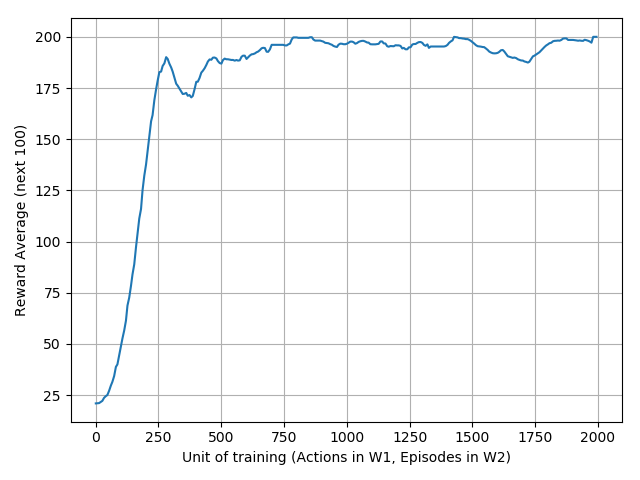
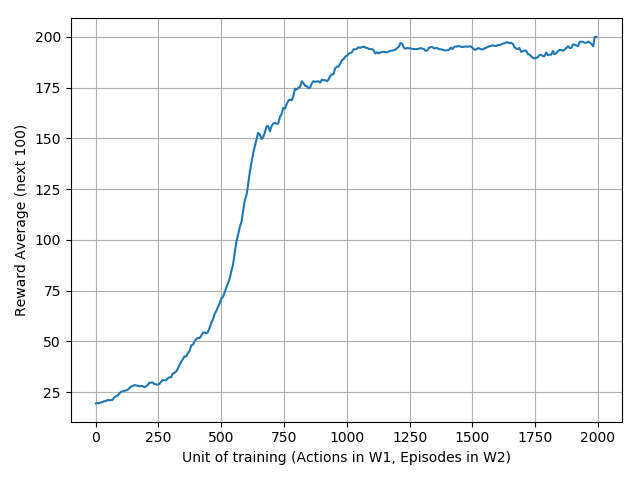
Tune parameters and fix designs for QRA2C.

diff --git a/algorithms/QRA2C.py b/algorithms/QRA2C.py
@@ -19,11 +19,13 @@ class QRVNetwork(object):
             for hidden_dim in self.hidden_dims:
                 hidden = tf.layers.dense(hidden, hidden_dim, activation=tf.nn.relu,
                                          kernel_initializer=tf.initializers.variance_scaling(distribution='uniform',
-                                                                                             mode='fan_avg'))
+                                                                                             mode='fan_avg'),
+                                         kernel_regularizer=tf.contrib.layers.l2_regularizer(1e-3))
             hidden = tf.layers.dense(hidden, self.n_quantile, activation=None,
-                                   kernel_initializer=tf.initializers.variance_scaling(distribution='uniform',
-                                                                                             mode='fan_avg'))
+                                   kernel_initializer=tf.initializers.variance_scaling(distribution='uniform',mode='fan_avg'),
+                                   kernel_regularizer=tf.contrib.layers.l2_regularizer(1e-3))
             return hidden
+
 
 class QRA2C(A2C):
     '''
@@ -35,36 +37,77 @@ class QRA2C(A2C):
         self.kappa = kappa
         self.n_quantile = n_quantile
         super(QRA2C, self).__init__(*args, **kwargs)
-    
+
     def build_actor_critic(self):
         self.actor = Actor_(self.hidden_dims, self.n_action, self.scope_pre+'actor')
+        self.critic_target = QRVNetwork(self.hidden_dims, self.n_quantile, self.scope_pre+'target_critic')
         self.critic = QRVNetwork(self.hidden_dims, self.n_quantile, self.scope_pre+'critic')
+
+    def get_mean(self, Z):
+        part1 = Z[:, :-2:2]
+        part2 = Z[:,1:-1:2]
+        part3 = Z[:, 2::2]
+        Z = (part1+4.*part2+part3)/3.
+        return tf.reduce_mean(Z, axis=1)
+
+    def get_huber_quantile_regression_loss(self, Z1, Z2):
+        errors = tf.expand_dims(Z1, axis=2) - tf.expand_dims(Z2, axis=1)
+        huber_loss_case_one = tf.to_float(tf.abs(errors) <= self.kappa) * 0.5 * errors ** 2
+        huber_loss_case_two = tf.to_float(tf.abs(errors) > self.kappa) * self.kappa * \
+                              (tf.abs(errors) - 0.5 * self.kappa)
+        huber_loss = huber_loss_case_one + huber_loss_case_two
+        quantiles = tf.expand_dims(tf.expand_dims(tf.range(0.5 / self.n_quantile, 1., 1. / self.n_quantile), axis=0),
+                                   axis=1)
+        quantile_huber_loss = (tf.abs(quantiles - tf.stop_gradient(tf.to_float(errors < 0))) * huber_loss) / \
+                              self.kappa
+        return tf.reduce_mean(tf.reduce_sum(quantile_huber_loss, axis=2), axis=1)
 
     def build_loss(self):
         states = self.states
         nexts = self.nexts
+        rewards = 0.01*self.rewards
         batch_size = tf.shape(states)[0]
         batch_indices = tf.range(batch_size,dtype=tf.int32)[:, None]
-        target_Z = tf.stop_gradient(self.rewards[:,None]+self.are_non_terminal[:, None] * \
+        target_Z = tf.stop_gradient(rewards[:,None]+self.are_non_terminal[:, None] * \
                    np.power(self.gamma, self.N) * self.critic(nexts))
         Z = self.critic(states)
-        bellman_errors = tf.expand_dims(target_Z, axis=2) - tf.expand_dims(Z, axis=1)
-        huber_loss_case_one = tf.to_float(tf.abs(bellman_errors) <= self.kappa) * 0.5 * bellman_errors ** 2
-        huber_loss_case_two = tf.to_float(tf.abs(bellman_errors) > self.kappa) * self.kappa * \
-                              (tf.abs(bellman_errors) - 0.5 * self.kappa)
-        huber_loss = huber_loss_case_one + huber_loss_case_two
-        quantiles = tf.expand_dims(tf.expand_dims(tf.range(0.5 / self.n_quantile, 1., 1. / self.n_quantile), axis=0),
-                                   axis=1)
-        quantile_huber_loss = (tf.abs(quantiles - tf.stop_gradient(tf.to_float(bellman_errors < 0))) * huber_loss) / \
-                              self.kappa
-        self.critic_loss = tf.reduce_mean(tf.reduce_mean(tf.reduce_sum(quantile_huber_loss, axis=2), axis=1), axis=0)
-
+        Z_old = tf.stop_gradient(self.critic_target(states))
+        regression_loss = self.get_huber_quantile_regression_loss(target_Z, Z)
+        self.critic_loss = tf.reduce_mean(self.get_huber_quantile_regression_loss(target_Z, Z), axis=0)
+        self.critic_loss += tf.losses.get_regularization_loss(scope=self.scope_pre+"critic")
         self.logits = self.actor(states)
         self.pi = tf.nn.softmax(self.logits, axis=-1)
-        log_pi = tf.log(self.pi)
+        log_pi = tf.log(self.pi+1e-12)
         action_indices = tf.concat([batch_indices, self.actions], axis=1)
         log_action_prob = tf.gather_nd(log_pi, action_indices)[:, None]
-        advantage = tf.stop_gradient(tf.reduce_mean(target_Z, axis=1)
-                              -tf.reduce_mean(Z, axis=1))
+        advantage = tf.stop_gradient(self.get_mean(target_Z)-self.get_mean(Z))
         pg_loss = advantage*log_action_prob
         self.actor_loss = -tf.reduce_mean(pg_loss)
+
+    def train(self, sess, saver, summary_writer, progress_fd, model_path, batch_size=64, step=10, start_episode=0,
+              train_episodes=1000, save_episodes=100, epsilon=0.3, apply_her=False, n_goals=10):
+        total_rewards = []
+        for i_episode in tqdm(range(train_episodes), ncols=100):
+            states, actions, returns, nexts, are_non_terminal, total_reward = self.collect_trajectory()
+            append_summary(progress_fd, str(start_episode + i_episode) + ',{0:.2f}'.format(total_reward))
+            total_rewards.append(total_reward)
+            perm = np.random.permutation(len(states))
+            for s in range(step):
+                sess.run([self.critic_step],
+                     feed_dict={self.states: states,
+                                self.actions: actions,
+                                self.rewards: returns,
+                                self.nexts: nexts,
+                                self.are_non_terminal: are_non_terminal,
+                                self.training: True})
+            sess.run([self.actor_step],
+                     feed_dict={self.states: states,
+                                self.actions: actions,
+                                self.rewards: returns,
+                                self.nexts: nexts,
+                                self.are_non_terminal: are_non_terminal,
+                                self.training: True})
+            # summary_writer.add_summary(summary, global_step=self.global_step.eval())
+            if (i_episode + 1) % save_episodes == 0:
+                saver.save(sess, model_path)
+        return total_rewards

diff --git a/algorithms/A2C.py b/algorithms/A2C.py
@@ -18,11 +18,11 @@ class Actor_(object):
 			hidden = states
 			for hidden_dim in self.hidden_dims:
 				hidden = tf.layers.dense(hidden, hidden_dim, activation=tf.nn.relu,
-				                         kernel_initializer=tf.initializers.variance_scaling(distribution='uniform',
-																							 mode='fan_avg'))
+				                         kernel_initializer=tf.initializers.variance_scaling(),
+				                         kernel_regularizer=tf.contrib.layers.l2_regularizer(1e-3))
 			return tf.layers.dense(hidden, self.action_dim, activation=None,
-			                       kernel_initializer=tf.initializers.variance_scaling(distribution='uniform',
-																							 mode='fan_avg'))
+			                       kernel_initializer=tf.initializers.random_uniform(minval=-3e-3, maxval=3e-3),
+			                       kernel_regularizer=tf.contrib.layers.l2_regularizer(1e-3))
 
 class VNetwork(object):
 	def __init__(self, hidden_dims, scope):
@@ -34,11 +34,9 @@ class VNetwork(object):
 			hidden = states
 			for hidden_dim in self.hidden_dims:
 				hidden = tf.layers.dense(hidden, hidden_dim, activation=tf.nn.relu,
-				                         kernel_initializer=tf.initializers.variance_scaling(distribution='uniform',
-																							 mode='fan_avg'))
+				                         kernel_initializer=tf.initializers.variance_scaling())
 			hidden = tf.layers.dense(hidden, 1, activation=None,
-			                       kernel_initializer=tf.initializers.variance_scaling(distribution='uniform',
-																							 mode='fan_avg'))
+			                       kernel_initializer=tf.initializers.random_uniform(minval=-3e-3, maxval=3e-3))
 			return hidden
 
 class A2C(object):
@@ -82,15 +80,17 @@ class A2C(object):
     def build_loss(self):
         states = self.states
         nexts = self.nexts
+        rewards = 0.01*self.rewards
         batch_size = tf.shape(states)[0]
         batch_indices = tf.range(batch_size,dtype=tf.int32)[:, None]
-        target_value = tf.stop_gradient(self.rewards[:, None]+self.are_non_terminal[:, None] * \
+        target_value = tf.stop_gradient(rewards[:, None]+self.are_non_terminal[:, None] * \
                    np.power(self.gamma, self.N) * self.critic(nexts))
         value = self.critic(states)
         self.critic_loss = tf.losses.mean_squared_error(value, target_value)
+        self.critic_loss += tf.losses.get_regularization_loss(scope=self.scope_pre+"critic")
         self.logits = self.actor(states)
         self.pi = tf.nn.softmax(self.logits, axis=-1)
-        log_pi = tf.log(self.pi)
+        log_pi = tf.log(self.pi+1e-12)
         action_indices = tf.concat([batch_indices, self.actions], axis=1)
         log_action_prob = tf.gather_nd(log_pi, action_indices)[:, None]
         advantage = tf.stop_gradient(target_value-value)
@@ -124,7 +124,8 @@ class A2C(object):
             append_summary(progress_fd, str(start_episode + i_episode) + ',{0:.2f}'.format(total_reward))
             total_rewards.append(total_reward)
             perm = np.random.permutation(len(states))
-            sess.run([self.critic_step],
+            for s in range(step):
+            	sess.run([self.critic_step],
                      feed_dict={self.states: states,
                                 self.actions: actions,
                                 self.rewards: returns,

diff --git a/run_experiments.py b/run_experiments.py
@@ -1,0 +1,19 @@
+import os
+import argparse
+
+def parse_arguments():
+	parser = argparse.ArgumentParser()
+	parser.add_argument('--exp-id', default=0, type=int)
+	return parser.parse_args()
+
+if __name__ == '__main__':
+	args = parse_arguments()
+	algorithms = ["A2C", "QRA2C"]
+	envs = ["CartPole-v0", "LunarLander-v2"]
+	n_episodes = {"CartPole-v0": 2000, "LunarLander-v2": 20000}
+	for algo in algorithms:
+		for env in envs:
+			print("************************")
+			print("Running {} on {}.".format(algo, env))
+			print("************************")
+			os.system("python main.py --env {} --model {} --N 1 --actor-lr 1e-4 --critic-lr 1e-4 --train-episodes {} --n-quantile 200 --kappa 1e-6 --step 10 --log-dir exp-{}-log --model-dir exp-{}-model --plot-dir exp-{}-plot --device {}".format(env, algo, n_episodes[env], args.exp_id, args.exp_id, args.exp_id, args.exp_id%2))
